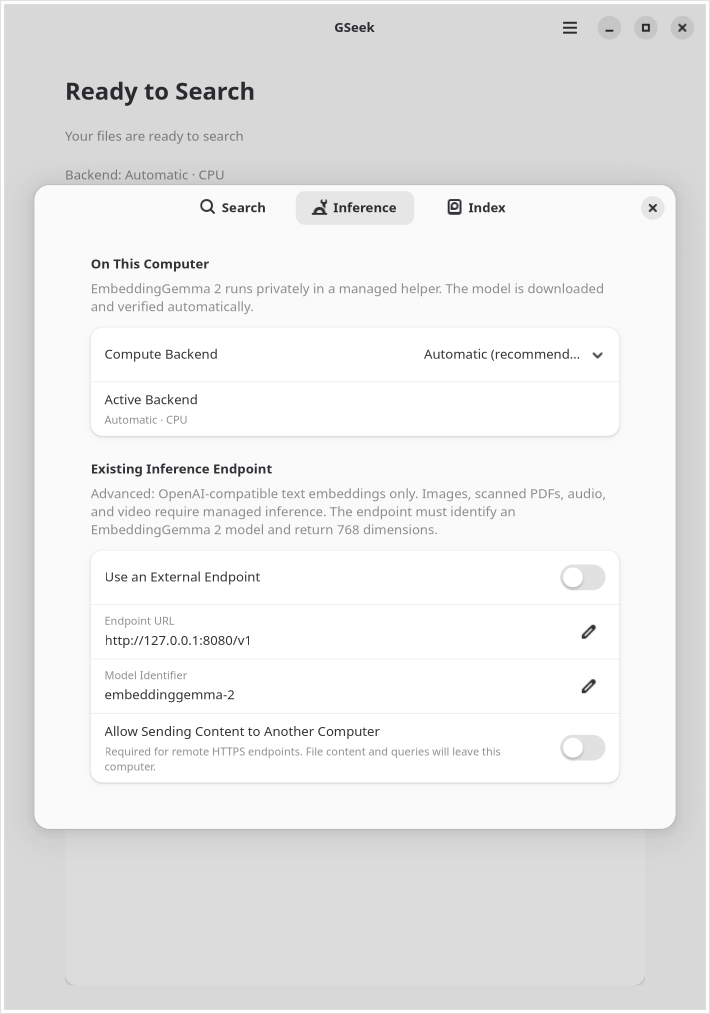
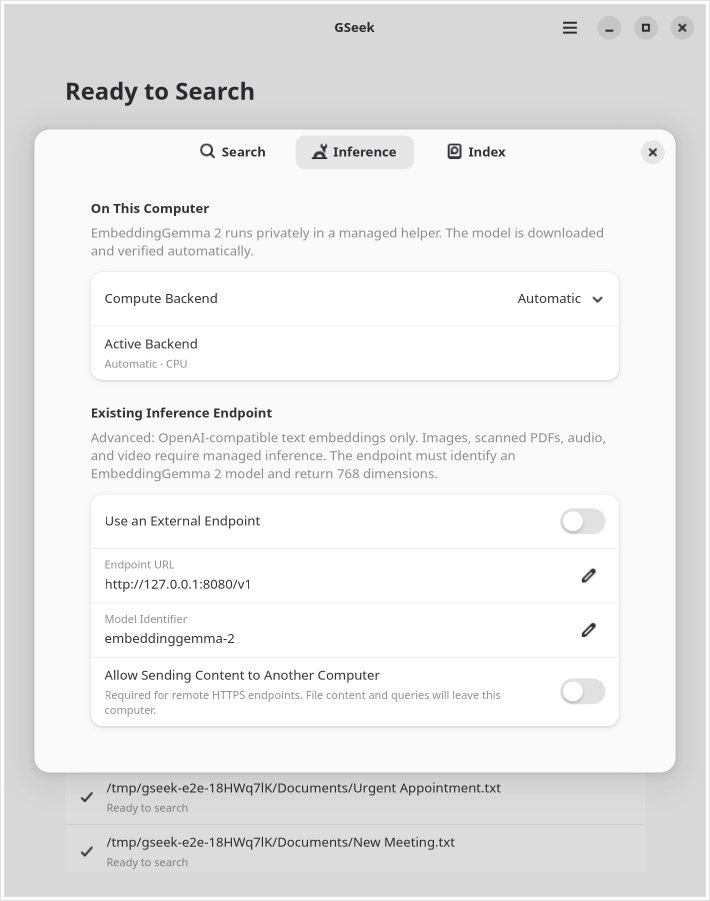
Make backend GUI regression polling and cleanup reliable

diff --git a/tests/e2e.py b/tests/e2e.py
@@ -564,6 +564,7 @@ class EndToEnd(unittest.TestCase):
 
     def test_08_native_gtk_views(self):
         if os.environ.get("GSEEK_GUI_TEST_COMMAND"):
+            original_settings = self.invoke("Settings")[0]
             # Exercise the actual preferences controls against a failed CUDA
             # launch, while healthy embeddings use the real upstream runtime.
             runtimes = ROOT / "native-runtimes"
@@ -581,42 +582,50 @@ class EndToEnd(unittest.TestCase):
                 self.command("quit")
                 wait_for(lambda: not self.bus.call_sync("org.freedesktop.DBus", "/org/freedesktop/DBus", "org.freedesktop.DBus", "NameHasOwner", GLib.Variant("(s)", (BUS,)), None, Gio.DBusCallFlags.NONE, 1000, None).unpack()[0])
                 wait_for(lambda: self.status()["ready"], timeout=300)
-            activate_runtime(str(runtimes))
-            downloads = ROOT / "Downloads"
-            downloads.mkdir(exist_ok=True)
-            files = [downloads / f"Show All Results {i}.txt" for i in range(7)]
-            for path in files:
-                path.write_text("Only the filename should be searched.")
-                self.add(path)
-            slow_open_seen = threading.Event()
-            def slow_open_query(_connection, message, incoming, _data):
-                body = message.get_body()
-                if incoming and message.get_member() == "Query" and body and "?url = " in str(body) and "Show%20All%20Results%200.txt" in str(body):
-                    slow_open_seen.set()
-                    time.sleep(1.2)
-                return message
-            filter_id = self.bus.add_filter(slow_open_query, None)
             try:
-                wait_for(lambda: len([hit for hit in self.search("Show All Results") if hit["name"].startswith("Show All Results")]) == 7)
-                subprocess.run(os.environ["GSEEK_GUI_TEST_COMMAND"].split(), check=True)
-                self.assertTrue(slow_open_seen.is_set(), "The native file opener must exercise the delayed filename lookup")
-                recovered = self.docs / "Native Backend Recovery.txt"
-                try:
-                    recovered.write_text("Indexing resumed after choosing Automatic in Preferences. A violet telescope on the balcony.")
-                    self.add(recovered)
-                    wait_for(lambda: any(hit["uri"] == recovered.as_uri() for hit in self.search("violet telescope balcony")))
-                    with sqlite3.connect(ROOT / "data/gseek/index.sqlite3") as database:
-                        self.assertEqual(database.execute("SELECT state FROM files WHERE uri=?", (recovered.as_uri(),)).fetchone()[0], "indexed")
-                finally:
-                    self.remove(recovered)
-                    recovered.unlink(missing_ok=True)
-            finally:
-                self.bus.remove_filter(filter_id)
+                activate_runtime(str(runtimes))
+                downloads = ROOT / "Downloads"
+                downloads.mkdir(exist_ok=True)
+                files = [downloads / f"Show All Results {i}.txt" for i in range(7)]
                 for path in files:
-                    self.remove(path)
-                    path.unlink()
-                activate_runtime(os.environ.get("GSEEK_RUNTIME_DIR", ""))
-            self.assertTrue(self.status()["ready"],"Closing the GTK window must not stop the background service")
+                    path.write_text("Only the filename should be searched.")
+                    self.add(path)
+                slow_open_seen = threading.Event()
+                def slow_open_query(_connection, message, incoming, _data):
+                    body = message.get_body()
+                    if incoming and message.get_member() == "Query" and body and "?url = " in str(body) and "Show%20All%20Results%200.txt" in str(body):
+                        slow_open_seen.set()
+                        time.sleep(1.2)
+                    return message
+                filter_id = self.bus.add_filter(slow_open_query, None)
+                try:
+                    wait_for(lambda: len([hit for hit in self.search("Show All Results") if hit["name"].startswith("Show All Results")]) == 7)
+                    subprocess.run(os.environ["GSEEK_GUI_TEST_COMMAND"].split(), check=True)
+                    self.assertTrue(slow_open_seen.is_set(), "The native file opener must exercise the delayed filename lookup")
+                    recovered = self.docs / "Native Backend Recovery.txt"
+                    try:
+                        recovered.write_text("Indexing resumed after choosing Automatic in Preferences. A violet telescope on the balcony.")
+                        self.add(recovered)
+                        wait_for(lambda: any(hit["uri"] == recovered.as_uri() for hit in self.search("violet telescope balcony")))
+                        with sqlite3.connect(ROOT / "data/gseek/index.sqlite3") as database:
+                            self.assertEqual(database.execute("SELECT state FROM files WHERE uri=?", (recovered.as_uri(),)).fetchone()[0], "indexed")
+                    finally:
+                        self.remove(recovered)
+                        recovered.unlink(missing_ok=True)
+                finally:
+                    self.bus.remove_filter(filter_id)
+                    for path in files:
+                        self.remove(path)
+                        path.unlink()
+                self.assertTrue(self.status()["ready"],"Closing the GTK window must not stop the background service")
+            finally:
+                # Restore even when activation, the native test, or file cleanup
+                # fails. A failed UI test may have left CUDA selected.
+                try:
+                    self.invoke("Configure", GLib.Variant("(s)", (original_settings,)))
+                finally:
+                    activate_runtime(os.environ.get("GSEEK_RUNTIME_DIR", ""))
+
         else:
             self.skipTest("Run under Xvfb or GNOME with GSEEK_GUI_TEST_COMMAND to capture native views")
 

diff --git a/src/ui.rs b/src/ui.rs
@@ -1736,8 +1736,10 @@ mod tests {
             }
             until(|| service::read_status().is_ok_and(|s| s.state == "error"));
             assert_eq!(service::read_settings().unwrap().backend, Backend::Cuda);
-            ui.refresh();
-            until(|| ui.backend.text() == "Backend: Not running · NVIDIA CUDA selected");
+            until(|| {
+                ui.refresh();
+                ui.backend.text() == "Backend: Not running · NVIDIA CUDA selected"
+            });
             {
                 let views = ui.backend_views.borrow();
                 let view = views.last().unwrap();
@@ -1777,8 +1779,10 @@ mod tests {
                 service::read_status()
                     .is_ok_and(|s| s.ready && s.requested_backend == Backend::Auto)
             });
-            ui.refresh();
-            until(|| ui.backend.text() == "Backend: Automatic · CPU");
+            until(|| {
+                ui.refresh();
+                ui.backend.text() == "Backend: Automatic · CPU"
+            });
             let dialog = ui
                 .window
                 .visible_dialog()
@@ -1798,8 +1802,10 @@ mod tests {
                     s.ready && s.requested_backend == Backend::Cpu && s.backend == "CPU"
                 })
             });
-            ui.refresh();
-            until(|| ui.backend.text() == "Backend: CPU");
+            until(|| {
+                ui.refresh();
+                ui.backend.text() == "Backend: CPU"
+            });
         }
         close_dialog(&ui.window);
         ui.show_results("Show All Results");
